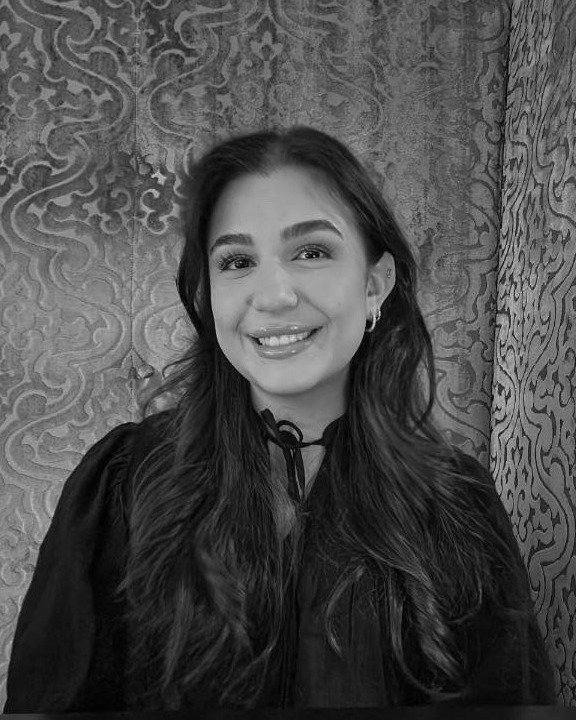
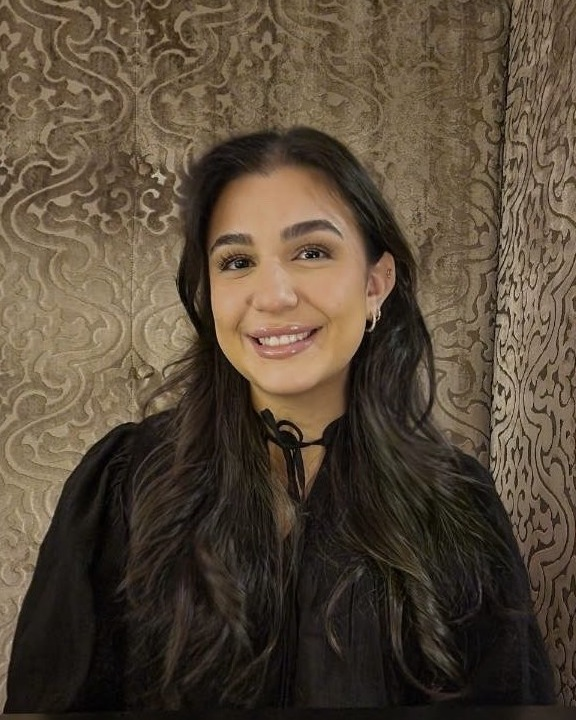
Use the colour portrait and build the light tones from the espresso
The site photo is now the same colour version the CV uses, framed in a
thicker line and cropped a little tighter so less of the patterned wall
shows. The paper, beige and sand tones are all mixed from the espresso
brown of the contact panel, so the palette reads as one family. Project
cards no longer stretch to match the tallest card in the row.

diff --git a/src/App.css b/src/App.css
@@ -116,26 +116,29 @@
 /* ─── HERO ───────────────────────────────────────────── */
 .hero {
   display: grid;
-  grid-template-columns: 0.85fr 1.15fr;
-  gap: 4rem;
+  grid-template-columns: 0.72fr 1.28fr;
+  gap: 3.6rem;
   align-items: center;
   max-width: var(--max-w);
   margin: 0 auto;
-  padding: 4rem 2rem 5rem;
+  padding: 4.5rem 2rem 5.5rem;
   border-bottom: 0.5px solid var(--border);
 }
 .hero-portrait {
   position: relative;
+  max-width: 340px;
   aspect-ratio: 4 / 5;
   overflow: hidden;
   border-radius: var(--radius);
   background: var(--surface);
-  border: 0.5px solid var(--border);
+  border: 2px solid var(--ink-40);
 }
 .hero-portrait img {
   width: 100%;
   height: 100%;
   object-fit: cover;
+  transform: scale(1.14);
+  transform-origin: 50% 34%;
 }
 .eyebrow {
   font-size: 0.7rem;
@@ -211,7 +214,7 @@
 .experience {
   max-width: var(--max-w);
   margin: 0 auto;
-  padding: 4rem 2rem;
+  padding: 4.75rem 2rem;
   border-bottom: 0.5px solid var(--border);
 }
 
@@ -237,7 +240,7 @@ section.reveal.is-visible {
 .about-body p {
   font-size: 1rem;
   color: var(--ink-60);
-  line-height: 1.75;
+  line-height: 1.8;
 }
 .about-body p:first-child {
   color: var(--ink);
@@ -251,8 +254,9 @@ section.reveal.is-visible {
 }
 .section-title {
   font-family: var(--font-display);
-  font-size: 1.6rem;
+  font-size: 1.75rem;
   font-weight: 400;
+  letter-spacing: -0.01em;
 }
 .section-link {
   font-size: 0.75rem;
@@ -267,12 +271,13 @@ section.reveal.is-visible {
 .project-grid {
   display: grid;
   grid-template-columns: repeat(auto-fit, minmax(300px, 1fr));
-  gap: 1.5rem;
+  align-items: start;
+  gap: 1.75rem;
 }
 .proj-card {
   display: flex;
   flex-direction: column;
-  padding: 1.75rem;
+  padding: 2rem;
   border: 0.5px solid var(--border);
   border-radius: var(--radius);
   background: var(--surface);
@@ -635,7 +640,7 @@ section.reveal.is-visible {
     padding: 3rem 1.25rem 2.5rem;
   }
   .hero-portrait {
-    max-width: 260px;
+    max-width: 270px;
     margin: 0 auto;
   }
   .nav {

diff --git a/src/index.css b/src/index.css
@@ -2,13 +2,13 @@
   --ink: #3b2c23;      /* Espresso */
   --ink-60: #665847;   /* Muted Cocoa */
   --ink-40: #7b6247;   /* Almond */
-  --border: #b7a38b;   /* Sand */
-  --surface: #ddd1c3;  /* Beige */
-  --bg: #f4ede1;       /* Ivory */
+  --border: #c9b9a4;   /* Sand, two steps up from the espresso */
+  --surface: #ece5da;  /* Beige, one step up from the sand */
+  --bg: #f8f5f0;       /* Paper, the lightest step */
 
   /* Contact panel — stays a dark statement in both themes */
   --panel-bg: #3b2c23;
-  --panel-ink: #f4ede1;
+  --panel-ink: #f8f5f0;
   --panel-muted: #ba9f83;
   --panel-border: #6f5f4d;
 
